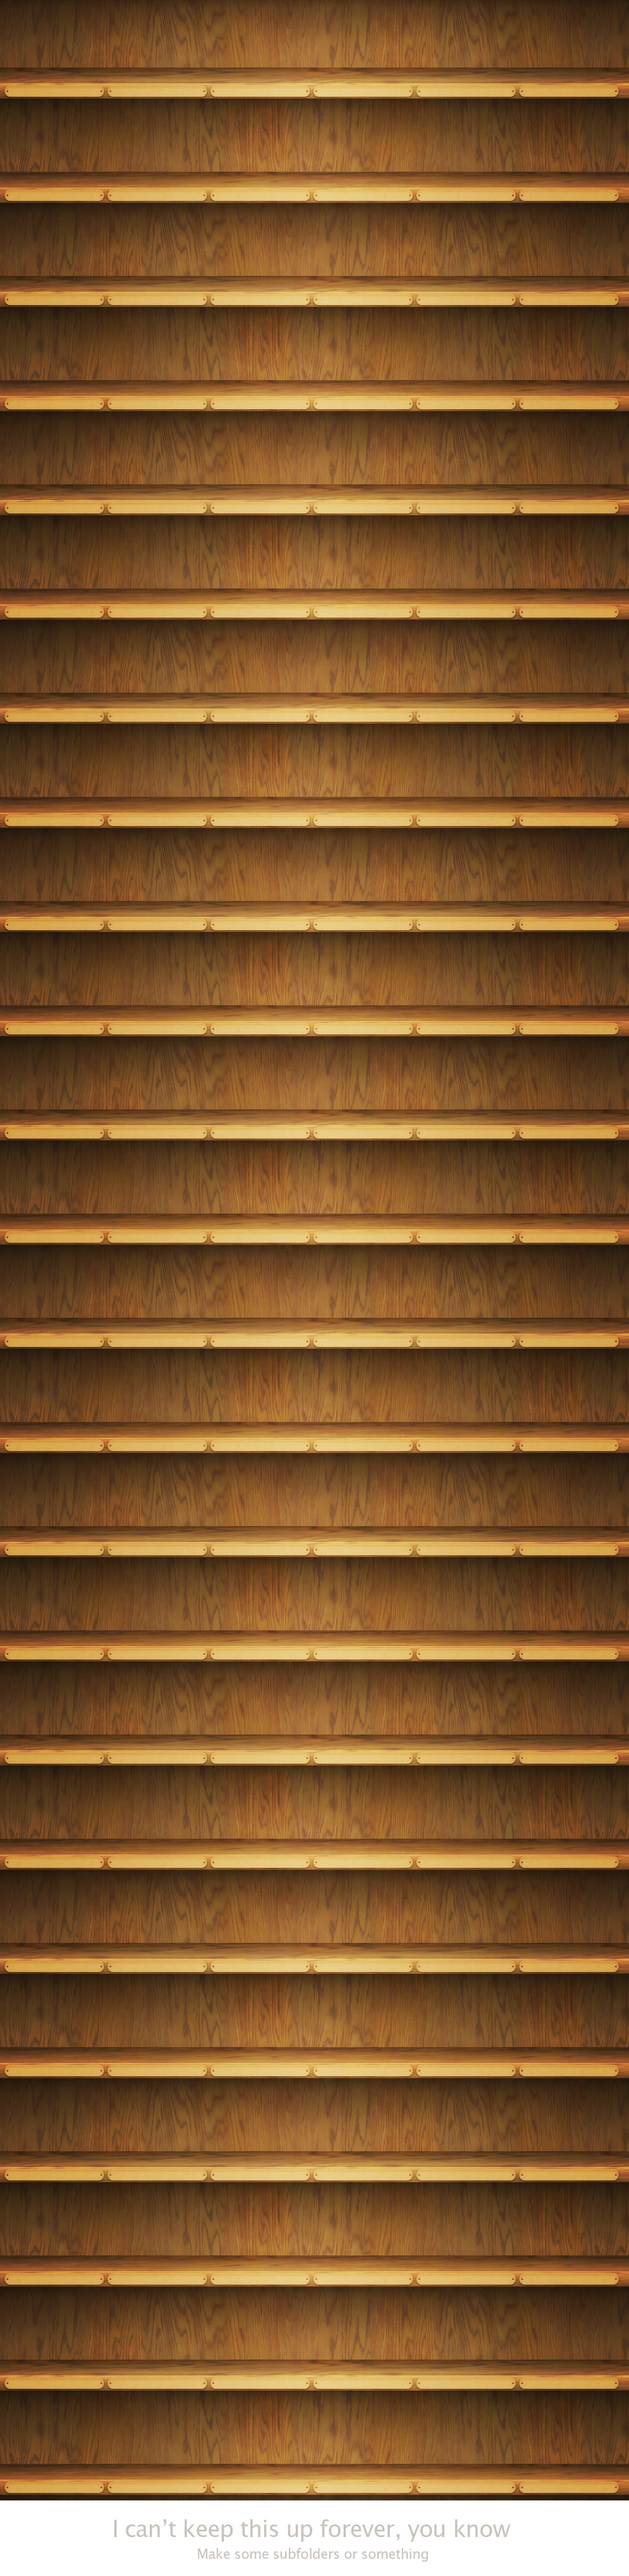
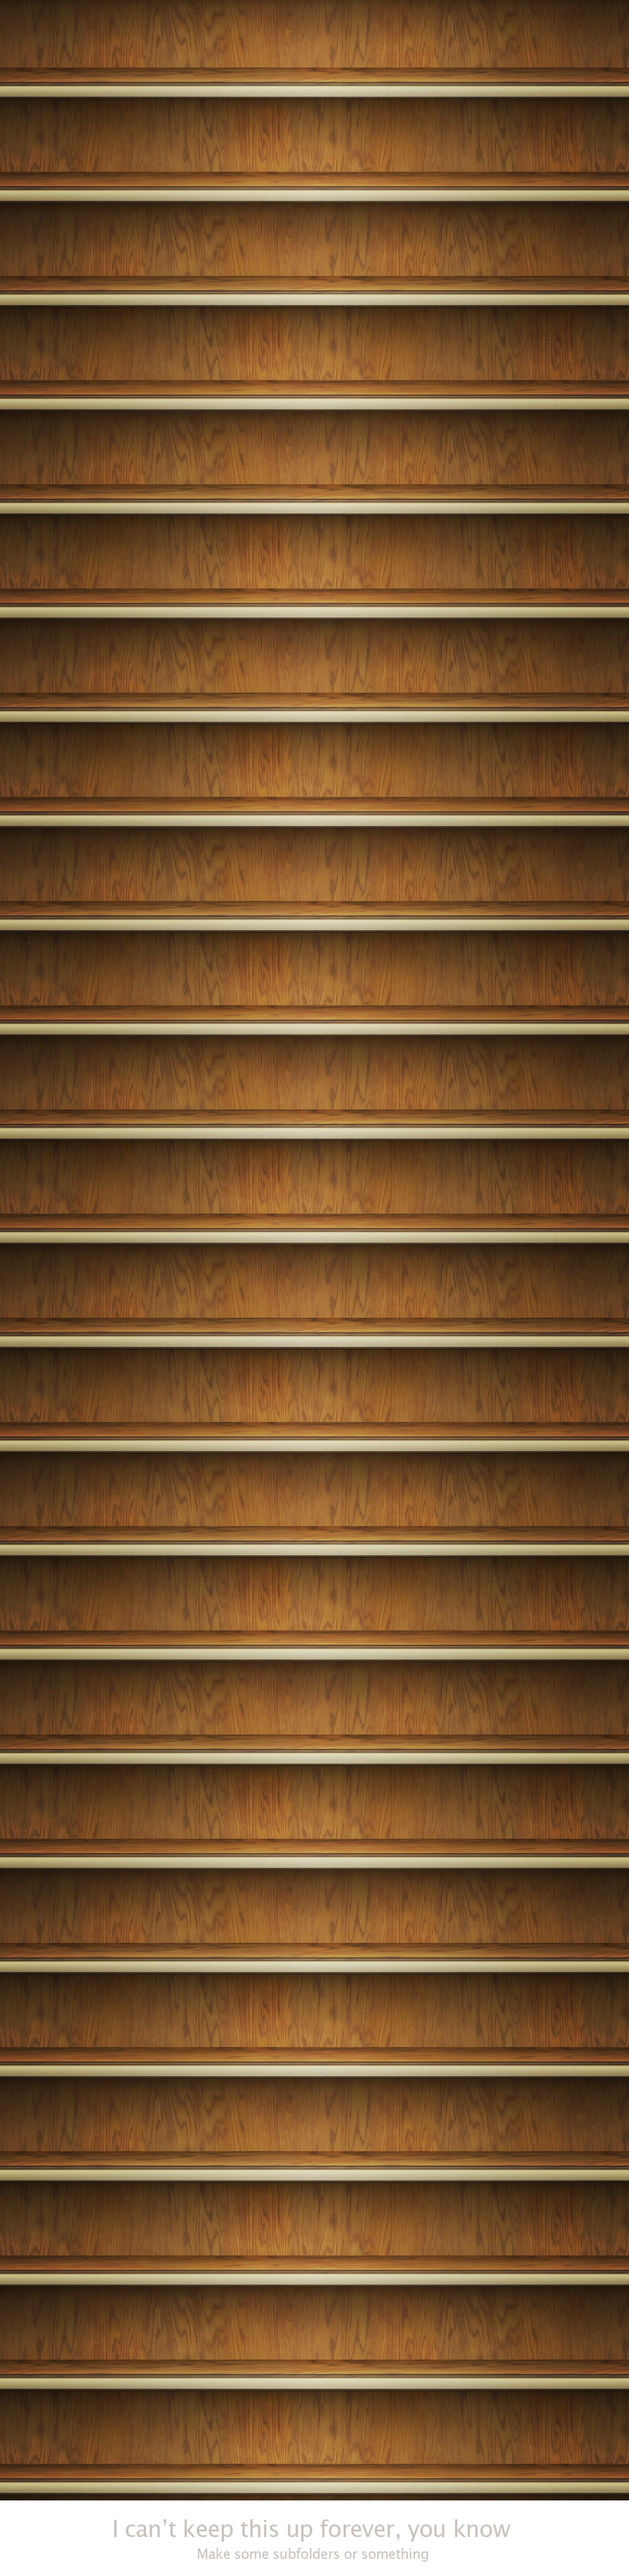
Retouched leopard shelf artwork also, and added switch to choose artwork based on Finder version number.

diff --git a/Boxer/BXAppController+BXGamesFolder.m b/Boxer/BXAppController+BXGamesFolder.m
@@ -96,12 +96,19 @@
 	
 	NSURL *folderURL = [NSURL fileURLWithPath: path];
 	
-	NSString *backgroundImageResource = @"ShelvesForSnowLeopard";
+	//Detect which version of Finder is running, and switch the background image we use accordingly
+	//(Leopard has different icon-view spacing than Snow Leopard)
+	
+	FinderApplication *finder = [SBApplication applicationWithBundleIdentifier: @"com.apple.finder"];
+	
+	//If the Finder version number is less than 10.6, treat this as the Leopard Finder.
+	BOOL isLeopardFinder = [@"10.6" compare: finder.version options: NSLiteralSearch | NSNumericSearch] == NSOrderedDescending;
+	
+	NSString *backgroundImageResource = (isLeopardFinder) ? @"ShelvesForLeopard" : @"ShelvesForSnowLeopard";
 	
 	NSURL *backgroundImageURL = [NSURL fileURLWithPath: [[NSBundle mainBundle] pathForImageResource: backgroundImageResource]];
 	
 	//Go go Scripting Bridge
-	FinderApplication *finder		= [SBApplication applicationWithBundleIdentifier: @"com.apple.finder"];
 	FinderFolder *folder			= [[finder folders] objectAtLocation: folderURL];
 	FinderFile *backgroundPicture	= [[finder files] objectAtLocation: backgroundImageURL];
 	
